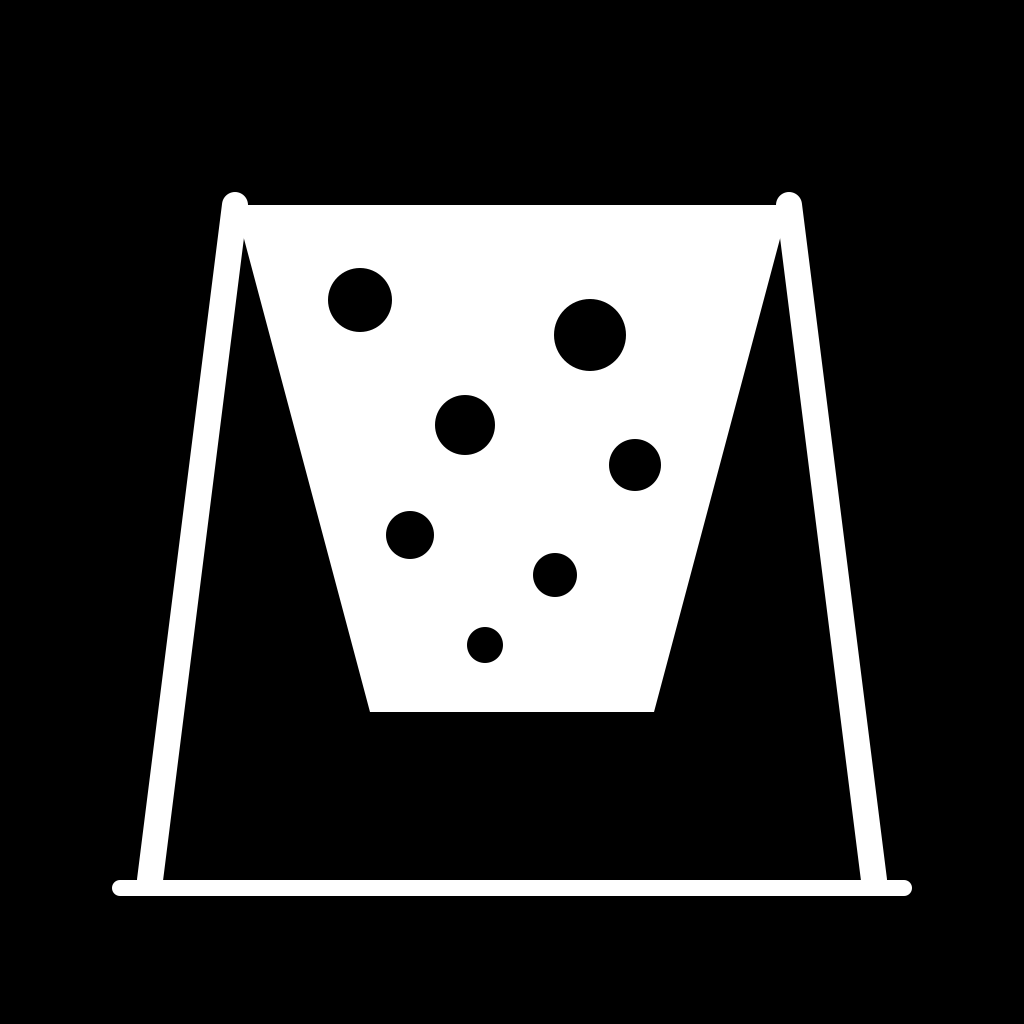
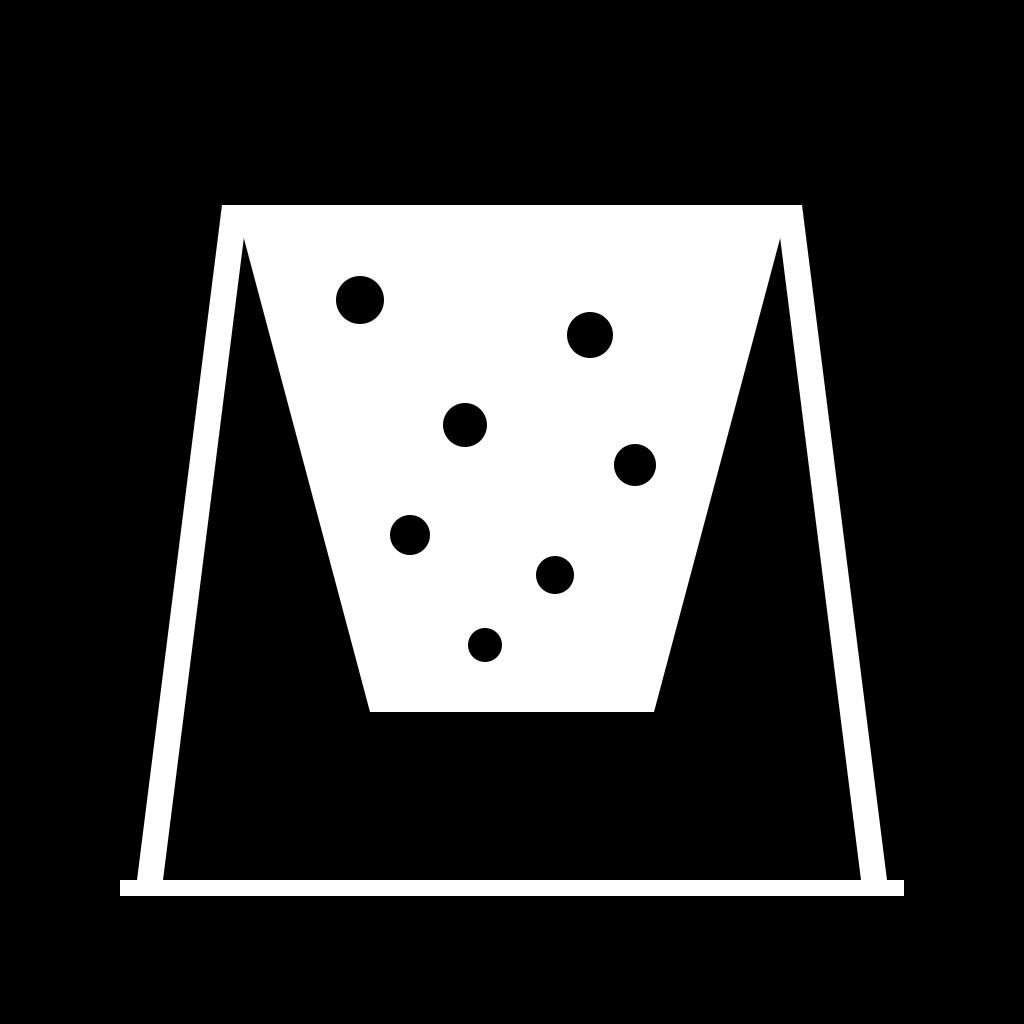
Fixed some permissions problems

diff --git a/home-board/app/(tabs)/profile.tsx b/home-board/app/(tabs)/profile.tsx
@@ -158,7 +158,9 @@ export default function ProfileScreen() {
       ? {
           $users: {
             $: { where: { id: user.id } },
-            selectedBoard: {},
+            selectedBoard: {
+              creator: {},
+            },
             ascents: {
               route: {},
             },
@@ -192,6 +194,7 @@ export default function ProfileScreen() {
 
 const currentUser = data?.$users?.[0];
   const selectedBoard = currentUser?.selectedBoard;
+  const isBoardCreator = (selectedBoard as any)?.creator?.id === user?.id;
   const ascents = currentUser?.ascents ?? [];
   const allBoards = data?.boards ?? [];
   const currentUsername = (currentUser as any)?.username as string | undefined;
@@ -433,7 +436,7 @@ const currentUser = data?.$users?.[0];
               <Text className="text-white font-medium text-sm">Add board</Text>
             </TouchableOpacity>
           </View>
-          {selectedBoard && (
+          {selectedBoard && isBoardCreator && (
             <TouchableOpacity
               onPress={() =>
                 router.push({

diff --git a/home-board/instant.perms.ts b/home-board/instant.perms.ts
@@ -7,6 +7,7 @@ const rules = {
     allow: {
       view: "true",
       create: "auth.id != null && data.path.startsWith('boards/')",
+      delete: "auth.id != null && data.path.startsWith('boards/')",
     },
   },
   $users: {